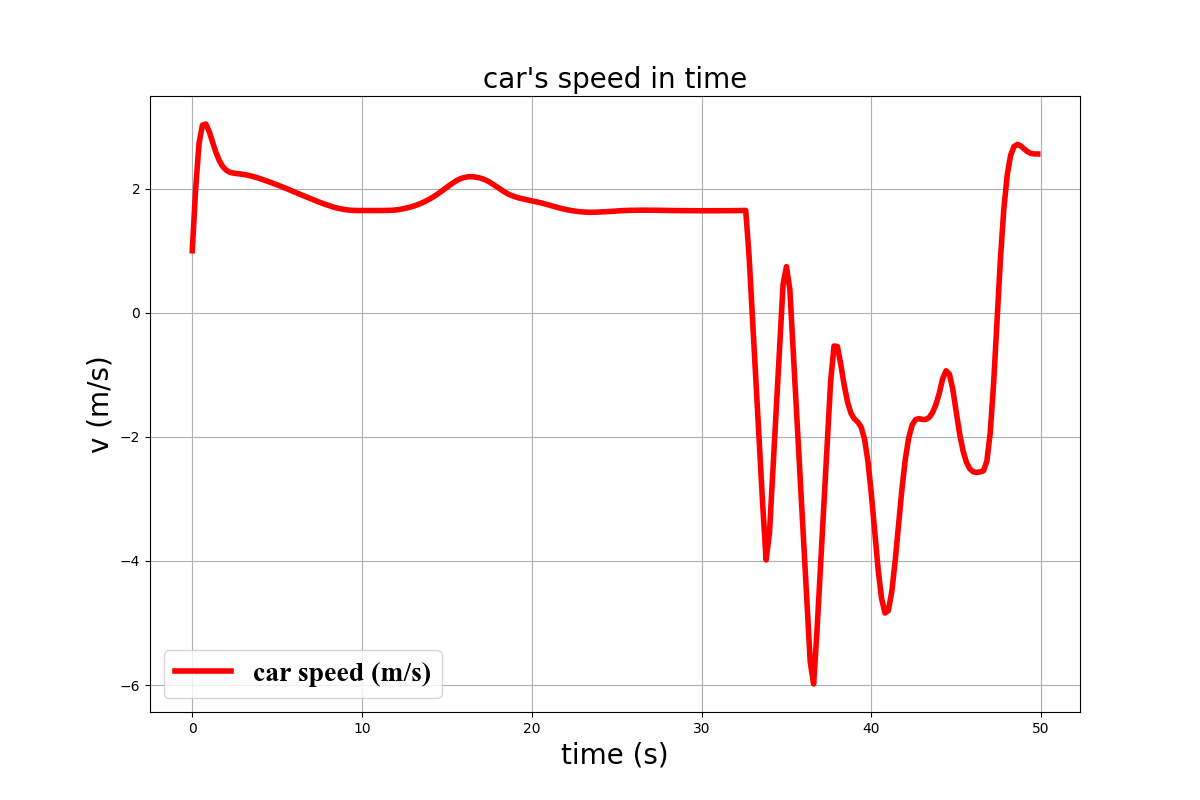
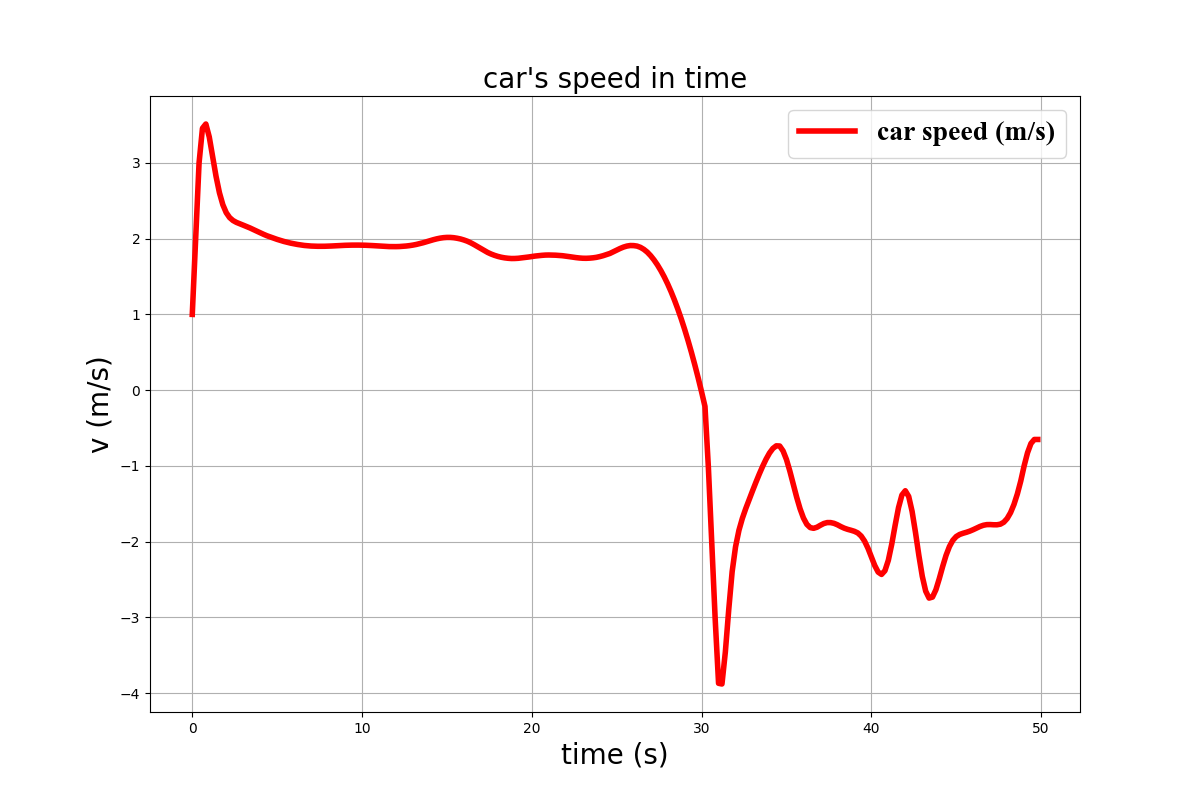
closer

diff --git a/CAR kinematic model/pathplanning.py b/CAR kinematic model/pathplanning.py
@@ -279,14 +279,14 @@ class ParkPathPlanning:
         path = path[::-1]
         computed_angle = angle_of_line(path[-10][0],path[-10][1],path[-1][0],path[-1][1])
 
-        s = 4
-        l = 8
+        s = 8
+        l = 14
         d = 4
-        w = 5
+        w = 8
         s2 = 2
-        l2 = 4
+        l2 = 2
         d2 = 1
-        w2 = 2
+        w2 = 0.5
 
         x_ensure2 = gx
         y_ensure2 = gy
@@ -310,7 +310,7 @@ class ParkPathPlanning:
             curve_x = np.array([])
             curve_y = np.array([])
 
-            sixdot_nine_a = 3.3  # Increase number to make middle slower
+            sixdot_nine_a = 3  # Increase number to make middle slower
 
             x = np.arange(x1, x0 + 1)
             circle_fun = (sixdot_nine_a ** 2 - (x - x0) ** 2)
@@ -320,8 +320,8 @@ class ParkPathPlanning:
             choices = y < y0 + sixdot_nine_a / 2 #Possible Mirror
             x = x[choices]
             y = y[choices]
-            curve_x = np.append(curve_x, x)
-            curve_y = np.append(curve_y, y)
+            curve_x = np.append(curve_x, x[::-1])
+            curve_y = np.append(curve_y, y[::-1])
 
             x = np.arange(x1, x0 + 1)
             circle_fun = (sixdot_nine_a ** 2 - (x - x1) ** 2)
@@ -331,10 +331,10 @@ class ParkPathPlanning:
             choices = y > y1 - sixdot_nine_a / 2
             x = x[choices]
             y = y[choices]
-            curve_x = np.append(curve_x, x)
-            curve_y = np.append(curve_y, y)
+            curve_x = np.append(curve_x, x[::-1])
+            curve_y = np.append(curve_y, y[::-1])
 
-            sixdot_nine_b = 6 #Increase number to make middle slower
+            sixdot_nine_b = 13 #Increase number to make middle slower
 
             x = np.arange(x2, x1 + 1)
             circle_fun = (sixdot_nine_b ** 2 - (x - x1) ** 2)
@@ -358,18 +358,7 @@ class ParkPathPlanning:
             y = y[choices]
             curve_x = np.append(curve_x, x[::-1])
             curve_y = np.append(curve_y, y[::-1])
-            
-
             #
-            # y = np.arange(y0,y1+1)
-            # circle_fun = (6.9**2 - (y-y1)**2)
-            # x = (np.sqrt(circle_fun[circle_fun>=0]) + x1-6.9)
-            # y = y[circle_fun>=0]
-            # choices = x>x1-6.9/2
-            # x=x[choices]
-            # y=y[choices]
-            # curve_x = np.append(curve_x, x)
-            # curve_y = np.append(curve_y, y)
             
             park_path = np.vstack([curve_x, curve_y]).T
             return park_path

diff --git a/CAR kinematic model/main_autopark.py b/CAR kinematic model/main_autopark.py
@@ -74,16 +74,17 @@ if __name__ == '__main__':
 
     print('interpolating ...')
     interpolated_path = interpolate_path(path, sample_rate=5)
-    # interpolated_path = path
     interpolated_park_path = interpolate_path(park_path, sample_rate=2)
+    # interpolated_path = path
     # interpolated_park_path = park_path
-    interpolated_park_path = np.vstack([ensure_path1[::-1], interpolated_park_path, ensure_path2[::-1]])
+    # interpolated_park_path = np.vstack([ensure_path1[::-1], interpolated_park_path, ensure_path2[::-1]])
+    interpolated_park_path = np.vstack([ensure_path1[::-1], interpolated_park_path])
 
-    env.draw_path(interpolated_path)
+    # env.draw_path(interpolated_path)
     env.draw_path(interpolated_park_path)
 
-    final_path = np.vstack([interpolated_path, interpolated_park_path, ensure_path2])
-    # final_path = np.vstack([interpolated_path])
+    # final_path = np.vstack([interpolated_path, interpolated_park_path, ensure_path2])
+    final_path = np.vstack([interpolated_path, interpolated_park_path])
 
     #############################################################################################
 

diff --git a/CAR kinematic model/environment.py b/CAR kinematic model/environment.py
@@ -118,15 +118,15 @@ class Parking1:
     def __init__(self, car_pos):
         self.car_obstacle_hori = self.make_car_hori()
         self.walls = [[70,i] for i in range(-10, 100)] +\
-                     [[i,55] for i in range(-10, 100)] + \
-                     [[i, 90] for i in range(20, 40)] +\
-                     [[i,80] for i in range(20, 40)] + \
-                     [[20, i] for i in range(80, 90)] +\
-                     [[40, i] for i in range(80, 91)]
+                     [[i,55] for i in range(-10, 100)]
+                     # [[i, 90] for i in range(20, 40)] +\
+                     # [[i,80] for i in range(20, 40)] + \
+                     # [[20, i] for i in range(80, 90)] +\
+                     # [[40, i] for i in range(80, 91)]
                      # [[20, i] for i in range(20, 40)]
             # self.walls = [0,100]
         self.obs = np.array(self.walls)
-        self.cars = {1 : [[25,65]],2 : [[5,65]],3 : [[40,65]]}
+        self.cars = {1 : [[25,75]],2 : [[5,65]],3 : [[40,65]]}
         self.end = self.cars[car_pos][0]
         self.cars.pop(car_pos)
 
